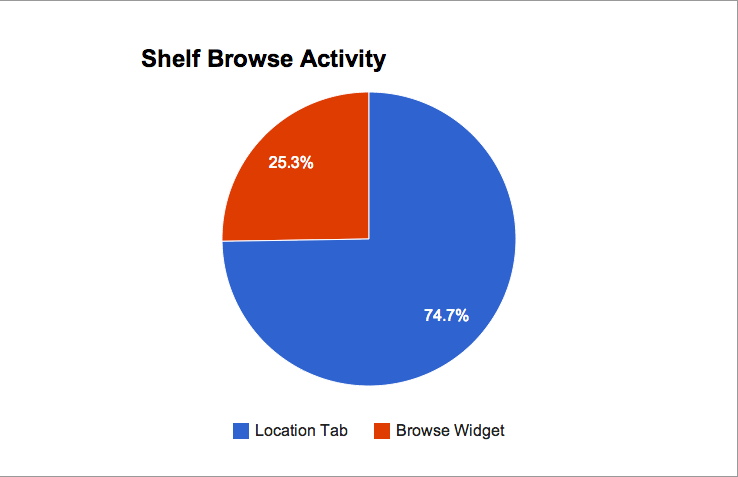
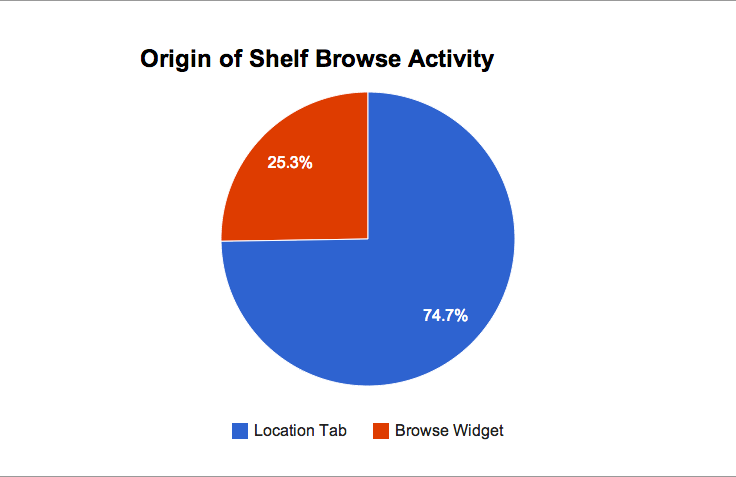
rest of Emily's slides

diff --git a/index.html b/index.html
@@ -80,13 +80,13 @@
                 	<section>
                 		<h2>Some Details</h2>
                 		<ul>
-                			<li>Can be used to track any user action you can identify with JavaScript</li>
+                			<li>Track any user action you can identify with JavaScript</li>
                 			<li>You decide what to track!</li>
                 				<ul>
                 					<li>Which user events?</li>
                 					<li>How should they be categorized?</li>
                 				</ul>
-                			<li>Use a simple JavaScript call to push events to Google</li>
+                			<li>Use simple JavaScript to push events to Google</li>
                 			<li>Enjoy Google Analytic's feature-full reporting interface</li>
                 		</ul>
                 		<aside class="notes">A set of tools within Google Analytics for tracking user actions in a locally customizable, granular way. You decide what to record and how to categorize it. If you are already loading the Google Analytics Javascript snippet into your site to track pageviews, you've already pretty much done all the setup that you need to do. Rather than pushing a javascript call that pushes the standard pageview into Google Analytics for tracking and reporting, you manually push an event that a user performs on your site. Along with the event, you push up several different categories to describe it -- these can be used for slicing and dicing your reporting later.
@@ -103,20 +103,26 @@
                 <!-- Example of nested vertical slides -->
                 <section>
                     <section>
-                        <h2>Event Tracking Use Cases</h2>
-                    </section>
-                    <section>
+                    	<h2>Event Tracking Use Cases</h2>
                     	<ul>
-                    		<li>Hidden or externally loaded (AJAX) content</li>
+                    		<li class="fragment">Hidden or externally loaded (AJAX) content</li>
                     	</ul>
+                    </section>
+                     <section> 
+                         <a class="image" href="images/catalog-hidden-content.png" target="_blank">
+                            <img src="images/catalog-hidden-content.png" alt="Full Record Preview" />
+                        </a>
+                        <aside class="notes">
+                            Some content on the page is hidden when the page loads; users access that content 
+                            by following a link.  
+                        </aside>
                     </section>
                     <section> 
                          <a class="image" href="images/catalog-record-ajax.png" target="_blank">
                             <img src="images/catalog-record-ajax.png" alt="Full Record Preview" />
                         </a>
                         <aside class="notes">
-                            Some content on the page is hidden when the page loads; users access that content 
-                            by following a link.  Other content is not loaded initially, but is on user demand (as in the tabs).
+                            Other content is not loaded initially, but is on user demand (as in the tabs).
                         </aside>
                     </section>
                     <section>
@@ -256,6 +262,10 @@
                             <img  src="images/catalog-event-categories.png" alt="Full Record Preview" />
                         </a>
                         <small>Note: February 5-7, 2013</small>
+                        <aside class="notes">Note that full text activity is scattered across URL, Location Tab, and Results. It's a big reason that the URL category is so high. The Location Tab contains some
+                        	frequently used items, particularly requesting and shelf browsing. A note about the dates....we just finally got some code released last week that contributed numbers for several categories of activity, particularly
+                        	full text URLs and things on the results list. In order to include that activity, I've had to limit the date range for these overall statistics. As I'll note on the next slide, that may skew things a little, but overall the trends
+                        	are very similar when compared out across the last 3-4 months.</aside>
                     </section>
 					<section>
 						<h5>Wait...do I see MARC??</h5>
@@ -263,41 +273,120 @@
                             <img  src="images/catalog-specific-events.png" alt="Full Record Preview" />
                         </a>
                         <small>Note: February 5-7, 2013</small>
-                    </section>
+                        <aside class="notes">This data is our second level "actions" -- not categories of events but specific events. It's interesting to again note the prominence of
+                        	tab activity here. We saw this confirmed in usability testing recently -- the users literally run through and click on all the tabs no matter what they are
+                        	called as one of their first activities if they are looking for something. This includes the MARC tab that we thought no one but staff ever clicked on.
+                        	Doesn't mean that the users know what it is; they usually look at it and are like "whatever that is..." I'm also interested, and a little disappointed by the number
+                        	of clicks on the "Details" tab. It's the second tab in our interface, and really, things like ISBN, other authors, other titles, notes are just no what most undergraduates are
+                        	looking for. This I'm sure is another case in point of tab click mania. And then you see Location Tab in the list -- this is them clicking back on the original tab after realizing the other
+                        	tabs really weren't particularly helpful. Full text is high obviously; you can see that our list feature is used a fair amount, as is requesting. It's also interesting to see
+                        	the Browse shelf, and our feature to send the search out to our local TRLN consortium being relatively highly used in comparison with other things like emailing, printing, or texting a record.</section>
+                    
                     <section>
-						<h5>Shelf browsing happens from the holdings list</h5>
+                    	<h2>An apology</h2>
+                    	<ul>
+                    		<li>Longer term usage trends show the Contents (supplemental table of contents) tab usage being extremely high (*) </li>
+                    		<li>Google Preview over the long haul is popular enough to make this top 10 list</li>
+                    	</ul>
+                    	<br />
+                    	<br />
+                    	<small> (*) sorry, that was a bug in the last code release</small>
+                    	<aside class="notes">However, use of the "expand to TRLN" feature holds its own against Google Preview, which frankly surprises me. Now if only I knew better how much of this usage was library staff.</aside>
+				</section>
+				<section>
+						<h5>A small link can overpower a fancy widget</h5>
 						<a class="image"  href="images/catalog-shelf-browse.png" target="_blank">
                             <img  src="images/catalog-shelf-browse.png" alt="Full Record Preview" />
                         </a>
+                        <aside class="notes">Note we have longer term statistics here, so I feel pretty confident about these numbers. 3/4 of users click on "Browse shelf" from the list of individual items
+                        on the holdings tab, rather than the big fancy looking widget.</aside>
                         <small>Note: November - February, 2013</small>
                     </section>
                     <section>
-                    	<h5>Users want to get stuff(*).
 						<a class="image"  href="images/catalog-shelf-browse-screenshot.png" target="_blank">
                             <img  src="images/catalog-shelf-browse-screenshot.png" alt="Full Record Preview" />
                         </a>
-                        <small>Note: November - February, 2013</small>
-                        <small>(*) E-mail is a red herring; low reporting is due to a code bug. More recent numbers show it on par with texting.</small>
+                        
                     </section>
                     <section>
-						<h5>What doesn't get used?</h5>
-						<a class="image"  href="images/summon-search.png" target="_blank">
-                            <img  src="images/summon-search.png" alt="Full Record Preview" />
+						<h5>Having a link in more than one place can be helpful</h5>
+						<a class="image"  href="images/catalog-requesting.png" target="_blank">
+                            <img  src="images/catalog-requesting.png" alt="Full Record Preview" />
                         </a>
+                        <aside class="notes"></aside>
+                        <small>Note: January - February, 2013</small>
+                    </section>
+                     <section>
+						<a class="image"  href="images/catalog-request-links.png" target="_blank">
+                            <img  src="images/catalog-request-links.png" alt="Full Record Preview" />
+                        </a>
+                        <aside class="notes"></aside>
+                    </section>
+                    <section>
+						<h5>Users make some decisions from the results list</h5>
+						<a class="image"  href="images/catalog-add-list.png" target="_blank">
+                            <img  src="images/catalog-add-list.png" alt="Full Record Preview" />
+                        </a>
+                        <aside class="notes"></aside>
+                        <small>Note: February 5-7, 2013</small>
+                    </section>
+                      <section>
+						<a class="image"  href="images/catalog-results-add-list.png" target="_blank">
+                            <img  src="images/catalog-results-add-list.png" alt="Full Record Preview" />
+                        </a>
+                        <aside class="notes"></aside>
+                    </section>
+                    <section>
+						<a class="image"  href="images/catalog-full-record-add-list.png" target="_blank">
+                            <img  src="images/catalog-full-record-add-list.png" alt="Full Record Preview" />
+                        </a>
+                        <aside class="notes"></aside>
+                    </section>
+                    <section>
+						<h5>But they still like to look at the full record</h5>
+						<a class="image"  href="images/catalog-full-text.png" target="_blank">
+                            <img  src="images/catalog-full-text.png" alt="Full Record Preview" />
+                        </a>
+                        <aside class="notes"></aside>
+                        <small>Note: February 5-7, 2013</small>
+                        <aside class="notes">70% of full text URL clicking is happening on the full record, even though the same URLs are offered on the results list</aside>
+                    </section>
+                    <section>
+						<a class="image"  href="images/catalog-full-record-full-text.png" target="_blank">
+                            <img  src="images/catalog-full-record-full-text.png" alt="Full Record Preview" />
+                        </a>
+                        <aside class="notes"></aside>
+                    </section>
+                    <section>
+						<a class="image"  href="images/catalog-results-full-text.png" target="_blank">
+                            <img  src="images/catalog-results-full-text.png" alt="Full Record Preview" />
+                        </a>
+                        <aside class="notes"></aside>
+                    </section>
+                    
+                    <section>
+                   		<h5>Users want to get stuff delivered (*)</h5>
+                   		<a class="image"  href="images/catalog-tools.png" target="_blank">
+                            <img  src="images/catalog-tools.png" alt="Full Record Preview" />
+                        </a>
+                   		<small>Note: November - February, 2013</small>
+                        <small>(*) E-mail is a red herring; low reporting is due to a prior code bug. More recent numbers show it on par with texting.</small>
+                        <aside class="notes">This graph shows use of tools in the toolstrip that runs across the top of the full record page (plus teh Add to List and Google Preview buttons). 
+                        The uptake on the "Add to List" functionality is interesting and shows its popularity in gathering a set of things together for users. I'm hypothesizing here, but am betting
+                        that has replaced users texting / emailing / printing individual records to themselves (don't actually have stats from the list at this point). 
+                        
                     </section>
             	</section>
             	<section>
             		<section>
             			<h2>NCSU Summon Activity(*)</h2>
             				<p class="fragment">Tracking fewer things</p>
-            				<p class="fragment">* Some things are almost impossible to track</p><br />
+            				<p class="fragment">* Some things are almost impossible to track (ex: clicks to view full text)</p><br />
             				<p class="fragment">Picked the things that were most reasonable to track, rather than most desired</p>
             				
             				</ul>
             			</section>
-            	</section>
-            	               <section>
-                	<section>
+            			<section>
             			<h2>What are we tracking?</h2>
             			<ul>
             				<li>Searches</li>
@@ -309,6 +398,7 @@
             			<aside class="notes">The biggest thing to note here is just that the list is a lot, lot smaller. Searching activity (advanced search, search refinements, actual new searches) is interesting, but we don't necessarily
             				care *that* much about paging or sorting. But they were easy to identify in the DOM. 
             		</section>
+            	
             		<section>
             			<h2>Category: Search</h2>
             			<small>Different types of search activity</small>
@@ -330,19 +420,21 @@
             			<p>Individual page number</p>
             		</section>
             	</section>
+            	</section>
+                	
             	<section>
 					<section>
 						<h2>Interesting Findings</h2>
 						<small>November 2012 - February 2013</small>
 					</section>
 					<section>
-						<h5>Much more searching (and even paging) then clicking on facet values</h5>
+						<h5>Paging is more popular than facets</h5>
 						<a class="image"  href="images/summon-overall-activity.png" target="_blank">
                             <img  src="images/summon-overall-activity.png" alt="Full Record Preview" />
                         </a>
                     </section>
                     <section>
-						<h5>Content Type and Subject are basically the only facets ever used</h5>
+						<h5>Content Type and Subject are basically the only facets </h5>
 						<a class="image"  href="images/summon-facet-usage.png" target="_blank">
                             <img  src="images/summon-facet-usage.png" alt="Full Record Preview" />
                         </a>
